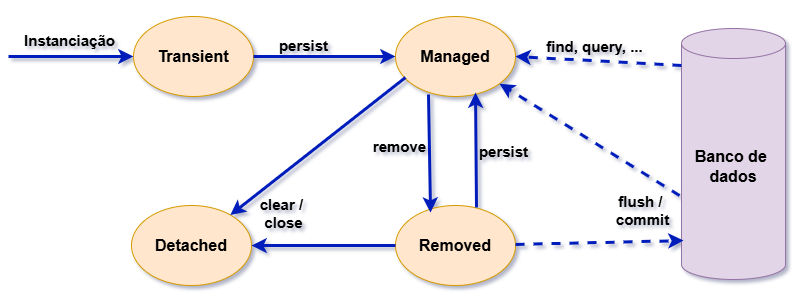
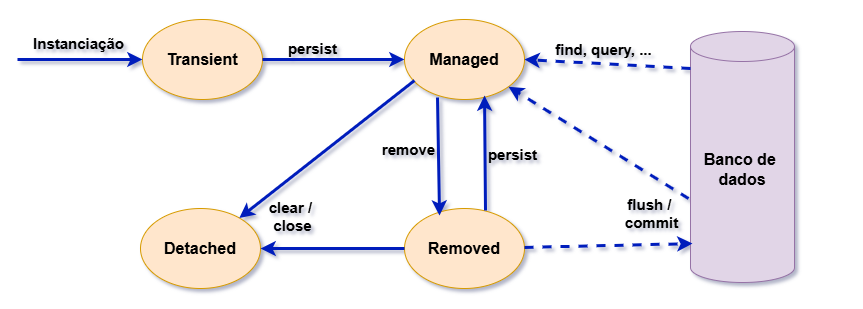
Apresentando o modelo e criando as entidades

Changed region(s): [[0.0, 0.0303, 0.9937, 1.0]]

diff --git a/src/main/java/com/especialista/jpa/_3_mapeamentoBasico/modelos/Pedido.java b/src/main/java/com/especialista/jpa/_3_mapeamentoBasico/modelos/Pedido.java
@@ -1,0 +1,27 @@
+package com.especialista.jpa._3_mapeamentoBasico.modelos;
+
+import lombok.EqualsAndHashCode;
+import lombok.Getter;
+import lombok.Setter;
+
+import javax.persistence.Entity;
+import javax.persistence.Id;
+import java.math.BigDecimal;
+import java.time.LocalDateTime;
+
+@Getter
+@Setter
+@EqualsAndHashCode(onlyExplicitlyIncluded = true)
+@Entity
+public class Pedido {
+
+    @Id
+    @EqualsAndHashCode.Include
+    private Integer id;
+    private LocalDateTime dataPedido;
+    private LocalDateTime dataConclusao;
+    private Integer notaFiscalId;
+    private BigDecimal total;
+    private StatusPedido status;
+
+}

diff --git a/src/main/java/com/especialista/jpa/_3_mapeamentoBasico/modelos/ItemPedido.java b/src/main/java/com/especialista/jpa/_3_mapeamentoBasico/modelos/ItemPedido.java
@@ -1,0 +1,25 @@
+package com.especialista.jpa._3_mapeamentoBasico.modelos;
+
+import lombok.EqualsAndHashCode;
+import lombok.Getter;
+import lombok.Setter;
+
+import javax.persistence.Entity;
+import javax.persistence.Id;
+import java.math.BigDecimal;
+
+@Getter
+@Setter
+@EqualsAndHashCode(onlyExplicitlyIncluded = true)
+@Entity
+public class ItemPedido {
+
+    @Id
+    @EqualsAndHashCode.Include
+    private Integer id;
+    private Integer pedidoId;
+    private Integer produtoId;
+    private BigDecimal precoProduto;
+    private Integer quantidade;
+
+}

diff --git a/src/main/java/com/especialista/jpa/_3_mapeamentoBasico/modelos/Produto.java b/src/main/java/com/especialista/jpa/_3_mapeamentoBasico/modelos/Produto.java
@@ -1,0 +1,24 @@
+package com.especialista.jpa._3_mapeamentoBasico.modelos;
+
+import lombok.EqualsAndHashCode;
+import lombok.Getter;
+import lombok.Setter;
+
+import javax.persistence.Entity;
+import javax.persistence.Id;
+import java.math.BigDecimal;
+
+@Getter
+@Setter
+@EqualsAndHashCode(onlyExplicitlyIncluded = true)
+@Entity
+public class Produto {
+
+    @Id
+    @EqualsAndHashCode.Include
+    private Integer id;
+    private String nome;
+    private String descricao;
+    private BigDecimal preco;
+
+}

diff --git a/src/main/java/com/especialista/jpa/_3_mapeamentoBasico/modelos/NotaFiscal.java b/src/main/java/com/especialista/jpa/_3_mapeamentoBasico/modelos/NotaFiscal.java
@@ -1,0 +1,24 @@
+package com.especialista.jpa._3_mapeamentoBasico.modelos;
+
+import lombok.EqualsAndHashCode;
+import lombok.Getter;
+import lombok.Setter;
+
+import javax.persistence.Entity;
+import javax.persistence.Id;
+import java.util.Date;
+
+@Getter
+@Setter
+@EqualsAndHashCode(onlyExplicitlyIncluded = true)
+@Entity
+public class NotaFiscal {
+
+    @Id
+    @EqualsAndHashCode.Include
+    private Integer id;
+    private Integer pedidoId;
+    private String xml;
+    private Date dataEmissao;
+
+}

diff --git a/src/main/java/com/especialista/jpa/_3_mapeamentoBasico/modelos/PagamentoBoleto.java b/src/main/java/com/especialista/jpa/_3_mapeamentoBasico/modelos/PagamentoBoleto.java
@@ -1,0 +1,23 @@
+package com.especialista.jpa._3_mapeamentoBasico.modelos;
+
+import lombok.EqualsAndHashCode;
+import lombok.Getter;
+import lombok.Setter;
+
+import javax.persistence.Entity;
+import javax.persistence.Id;
+
+@Getter
+@Setter
+@EqualsAndHashCode(onlyExplicitlyIncluded = true)
+@Entity
+public class PagamentoBoleto {
+
+    @Id
+    @EqualsAndHashCode.Include
+    private Integer id;
+    private Integer pedidoId;
+    private StatusPagamento status;
+    private String codigoBarras;
+
+}

diff --git a/src/main/java/com/especialista/jpa/_3_mapeamentoBasico/modelos/PagamentoCartao.java b/src/main/java/com/especialista/jpa/_3_mapeamentoBasico/modelos/PagamentoCartao.java
@@ -1,0 +1,23 @@
+package com.especialista.jpa._3_mapeamentoBasico.modelos;
+
+import lombok.EqualsAndHashCode;
+import lombok.Getter;
+import lombok.Setter;
+
+import javax.persistence.Entity;
+import javax.persistence.Id;
+
+@Getter
+@Setter
+@EqualsAndHashCode(onlyExplicitlyIncluded = true)
+@Entity
+public class PagamentoCartao {
+
+    @Id
+    @EqualsAndHashCode.Include
+    private Integer id;
+    private Integer pedidoId;
+    private StatusPagamento status;
+    private String numero;
+
+}

diff --git a/src/main/java/com/especialista/jpa/_3_mapeamentoBasico/modelos/Estoque.java b/src/main/java/com/especialista/jpa/_3_mapeamentoBasico/modelos/Estoque.java
@@ -1,0 +1,22 @@
+package com.especialista.jpa._3_mapeamentoBasico.modelos;
+
+import lombok.EqualsAndHashCode;
+import lombok.Getter;
+import lombok.Setter;
+
+import javax.persistence.Entity;
+import javax.persistence.Id;
+
+@Getter
+@Setter
+@EqualsAndHashCode(onlyExplicitlyIncluded = true)
+@Entity
+public class Estoque {
+
+    @Id
+    @EqualsAndHashCode.Include
+    private Integer id;
+    private Integer produtoId;
+    private Integer quantidade;
+
+}

diff --git a/src/main/java/com/especialista/jpa/_3_mapeamentoBasico/modelos/Categoria.java b/src/main/java/com/especialista/jpa/_3_mapeamentoBasico/modelos/Categoria.java
@@ -1,0 +1,21 @@
+package com.especialista.jpa._3_mapeamentoBasico.modelos;
+
+import lombok.EqualsAndHashCode;
+import lombok.Getter;
+import lombok.Setter;
+
+import javax.persistence.Entity;
+import javax.persistence.Id;
+
+@Getter
+@Setter
+@EqualsAndHashCode(onlyExplicitlyIncluded = true)
+@Entity
+public class Categoria {
+
+    @Id
+    @EqualsAndHashCode.Include
+    private Integer id;
+    private String nome;
+    private Integer categoriaPaiId;
+}

diff --git a/src/main/java/com/especialista/jpa/_3_mapeamentoBasico/modelos/Cliente.java b/src/main/java/com/especialista/jpa/_3_mapeamentoBasico/modelos/Cliente.java
@@ -1,0 +1,22 @@
+package com.especialista.jpa._3_mapeamentoBasico.modelos;
+
+import lombok.EqualsAndHashCode;
+import lombok.Getter;
+import lombok.Setter;
+
+import javax.persistence.Entity;
+import javax.persistence.Id;
+
+@Getter
+@Setter
+@EqualsAndHashCode(onlyExplicitlyIncluded = true)
+@Entity
+public class Cliente {
+
+    @Id
+    @EqualsAndHashCode.Include
+    private Integer id;
+    private String nome;
+    private SexoCliente sexo;
+
+}

diff --git a/src/main/java/com/especialista/jpa/_3_mapeamentoBasico/modelos/StatusPagamento.java b/src/main/java/com/especialista/jpa/_3_mapeamentoBasico/modelos/StatusPagamento.java
@@ -1,0 +1,8 @@
+package com.especialista.jpa._3_mapeamentoBasico.modelos;
+
+public enum StatusPagamento {
+
+    PROCESSANDO,
+    CANCELADO,
+    RECEBIDO;
+}

diff --git a/src/main/java/com/especialista/jpa/_3_mapeamentoBasico/modelos/StatusPedido.java b/src/main/java/com/especialista/jpa/_3_mapeamentoBasico/modelos/StatusPedido.java
@@ -1,0 +1,8 @@
+package com.especialista.jpa._3_mapeamentoBasico.modelos;
+
+public enum StatusPedido {
+
+    AGUARDANDO,
+    CANCELADO,
+    PAGO;
+}

diff --git a/src/main/java/com/especialista/jpa/_3_mapeamentoBasico/modelos/SexoCliente.java b/src/main/java/com/especialista/jpa/_3_mapeamentoBasico/modelos/SexoCliente.java
@@ -1,0 +1,7 @@
+package com.especialista.jpa._3_mapeamentoBasico.modelos;
+
+public enum SexoCliente {
+
+    MASCULINO,
+    FEMININO;
+}
